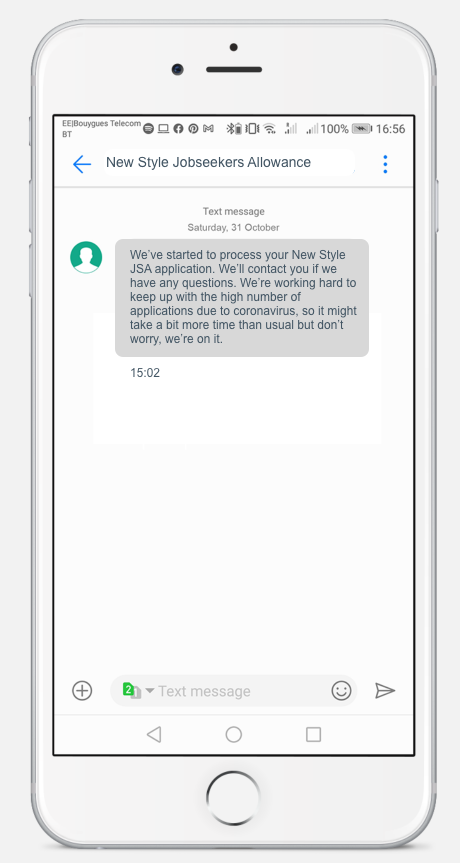
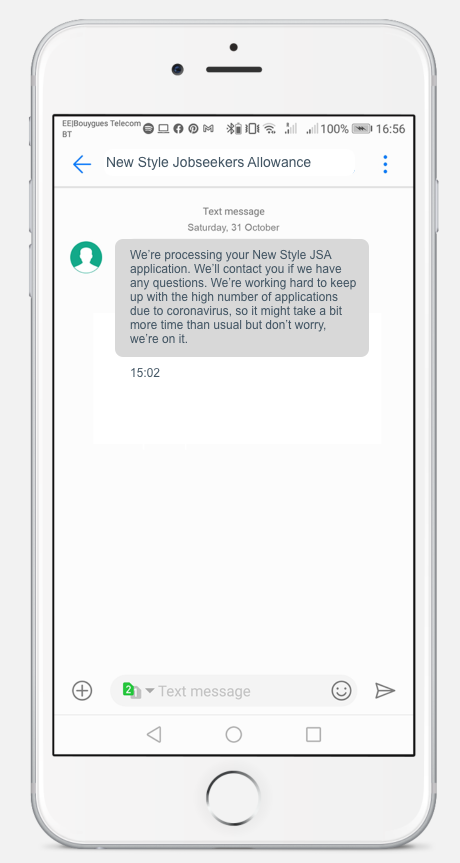
[Sprint6] updated v3 new notifs

Changed region(s): [[0.2739, 0.2711, 0.7609, 0.4218]]

diff --git a/app/views/sprint6/v3/started-email.html b/app/views/sprint6/v3/started-email.html
@@ -12,24 +12,19 @@
     <div class="govuk-grid-column-two-thirds">
 
         <p>Dear ((first name))</p>
+
+        <p>We’re processing your New Style JSA application.</p>
+
+        <p>If we have any questions about the details you’ve provided, we’ll let you know.</p>
+
+        <p>If you can get New Style JSA, we’ll usually contact you within 7 days to set up an 
+        appointment to discuss your job search. The appointment will be over the phone and is 
+        for you to talk through the things you can do to get a job.</p>
+
+        <p>If you cannot get New Style JSA, we’ll usually send you a letter within 7 days to explain why.</p>
         
-        <p>We’ve started to process your New Style JSA application. If we have any questions about the details you’ve provided, we’ll let you know.</p>
         <p>We’re getting a high number of applications due to coronavirus. We’re working hard to process your 
-        application as soon as we can, and we’ll usually contact you within 7 days to let you know if you can get New Style JSA.</p>
-
-        <h2 class="govuk-heading-m">If you’re eligible</h2>
-
-        <p>If you can get New Style JSA, we’ll contact you about an appointment to agree what you need to do to look for work. 
-        This is called a ‘Claimant Commitment’ appointment and will normally be over the phone with a work coach from your local jobcentre.</p>
-
-        <p>When we call you, our phone number may show as unknown or start with 0800. When you answer, you’ll be 
-        able to ask questions to check the call is genuine.</p>
-
-        <p>We’ll aim to pay you within 7 days of your appointment.</p>
-        
-        <h2 class="govuk-heading-m">If you’re not eligible</h2>
-
-        <p>If you cannot get New Style JSA, we’ll send you a letter to explain why.</p>
+        application as soon as we can.</p>
 
         <h2 class="govuk-heading-m">Do you need help with housing costs or support for a partner or child?</h2>
 
@@ -38,7 +33,7 @@
         <p>You or your partner must have less than £16,000 in savings or investments to be eligible.</p>
         <p>Find out <a href="https://www.gov.uk/how-to-claim-universal-credit">how to claim Universal Credit on GOV.UK</a>.</p>
 
-        <h2 class="govuk-heading-m">Next steps</h2>
+        <h2 class="govuk-heading-m">What you can do next</h2>
 
         <p>While we process your application, you should:</p>
 

diff --git a/app/views/sprint6/v3/getting-ready-email.html b/app/views/sprint6/v3/getting-ready-email.html
@@ -23,7 +23,7 @@
         <p>You or your partner must have less than £16,000 in savings or investments to be eligible.</p>
         <p>Find out <a href="https://www.gov.uk/how-to-claim-universal-credit">how to claim Universal Credit on GOV.UK</a>.</p>
 
-        <h2 class="govuk-heading-m">Next steps</h2>
+        <h2 class="govuk-heading-m">What you can do next</h2>
 
         <p>While you wait for us to process your application, you should:</p>
 
